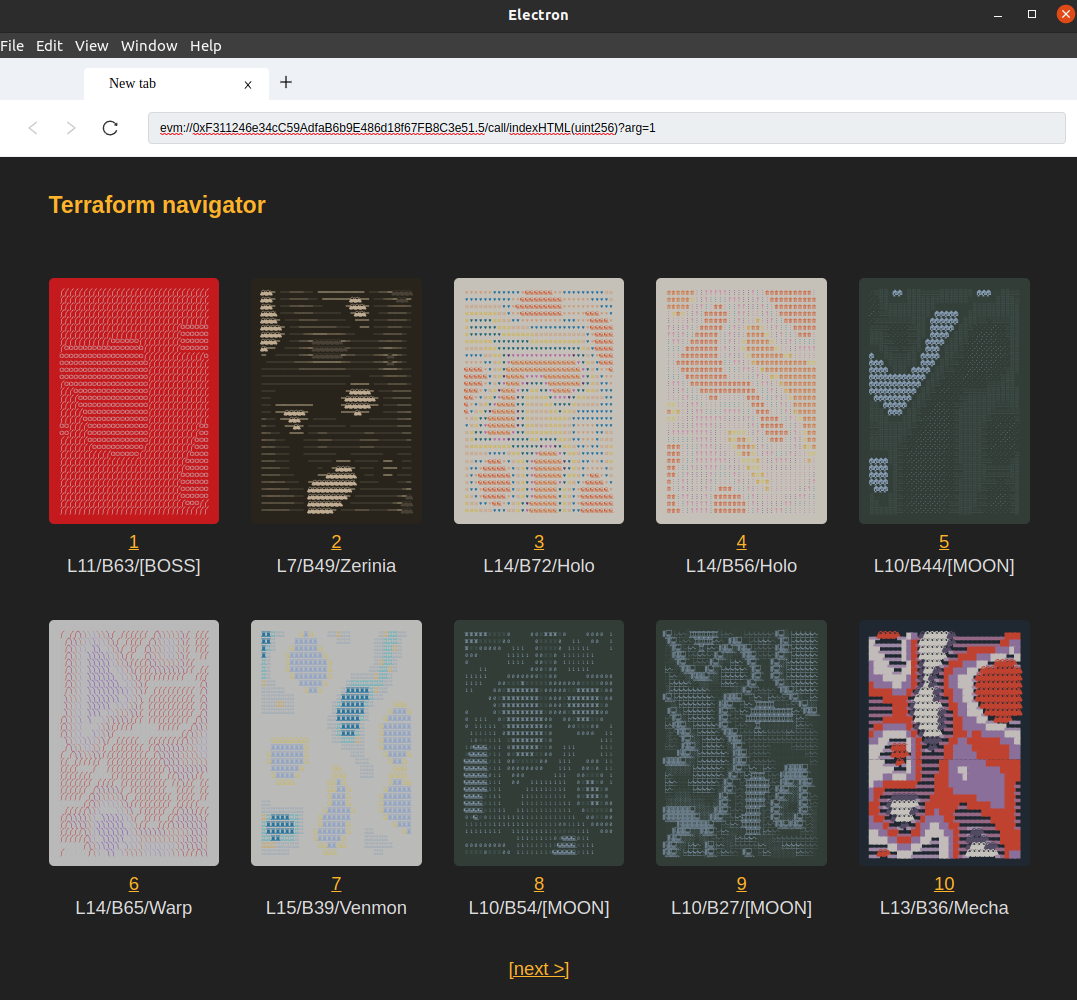
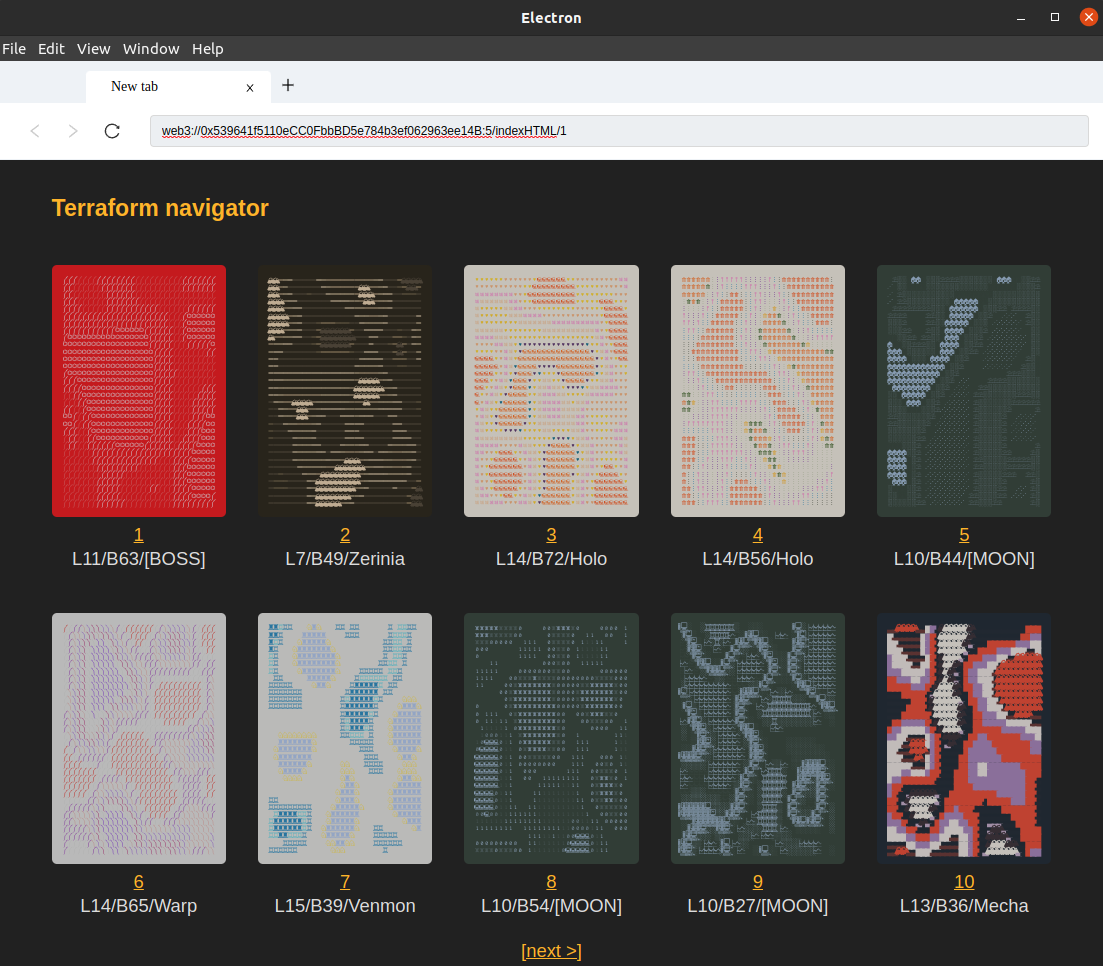
Default homepage: terraform explorer on goerli

diff --git a/example/main.js b/example/main.js
@@ -52,7 +52,7 @@ function createWindow() {
   browser = new BrowserLikeWindow({
     controlHeight: 99,
     controlPanel: fileUrl(`${__dirname}/renderer/control.html`),
-    startPage: args._.length == 1 ? args._[0] : 'web3://0x5a985f13345e820aa9618826b85f74c3986e1463:5/tokenSVG/2.svg', //'evm://0xF311246e34cC59AdfaB6b9E486d18f67FB8C3e51.5/call/indexHTML(uint256)?arg=1'
+    startPage: args._.length == 1 ? args._[0] : 'web3://0x539641f5110eCC0FbbBD5e784b3ef062963ee14B:5/indexHTML/1',
     blankTitle: 'New tab',
     debug: true, // will open controlPanel's devtools
     viewReferences: {
